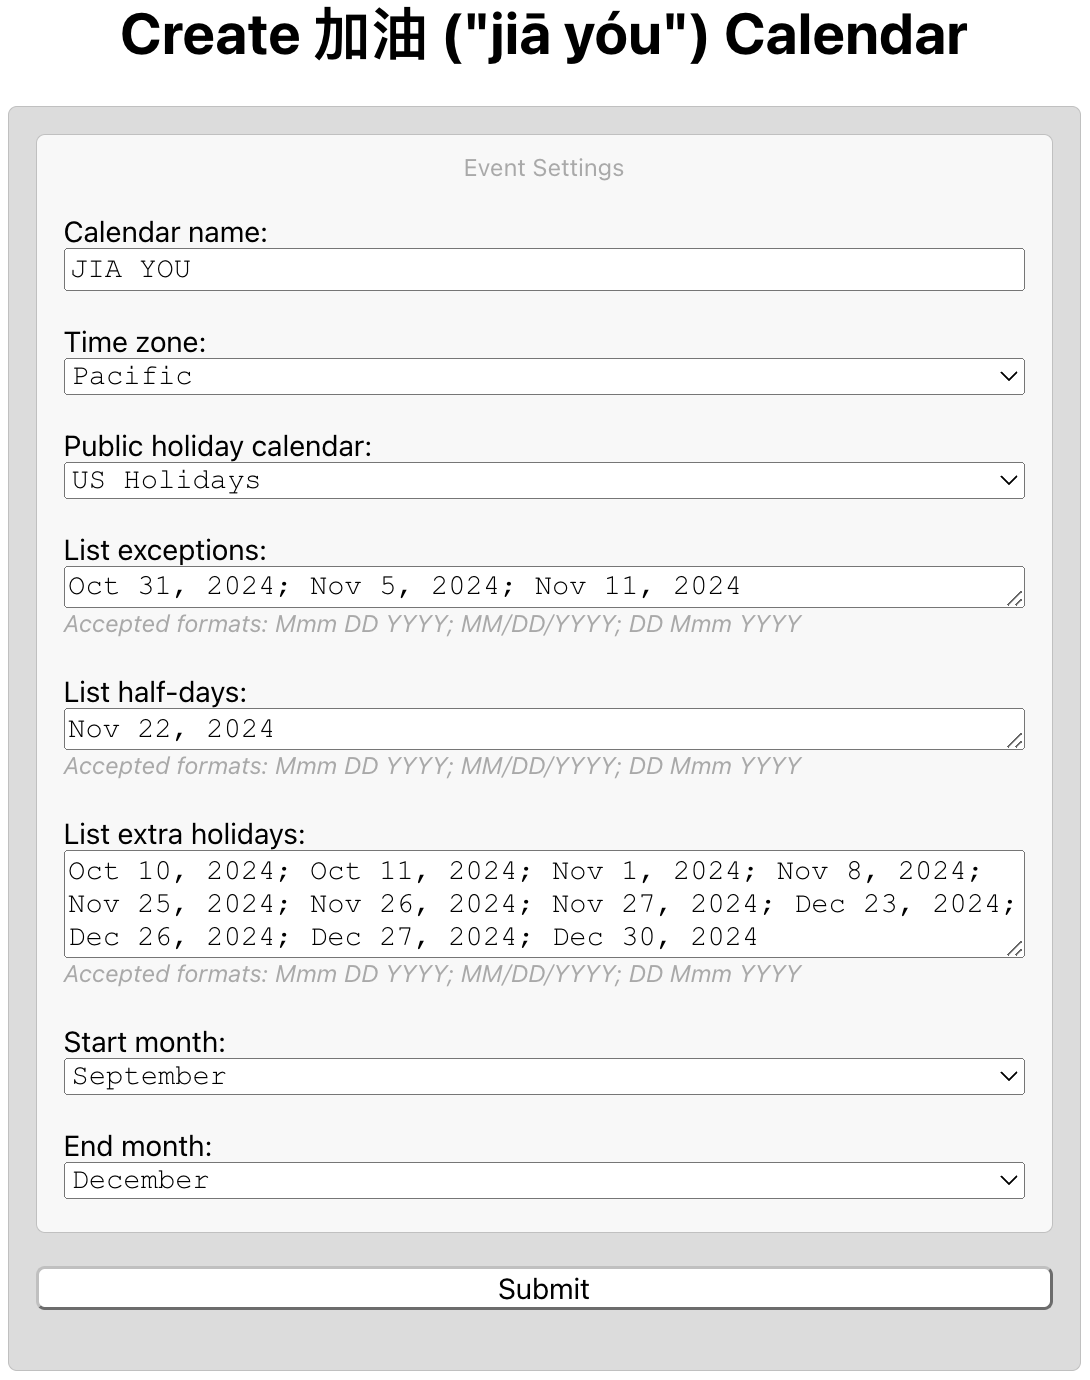
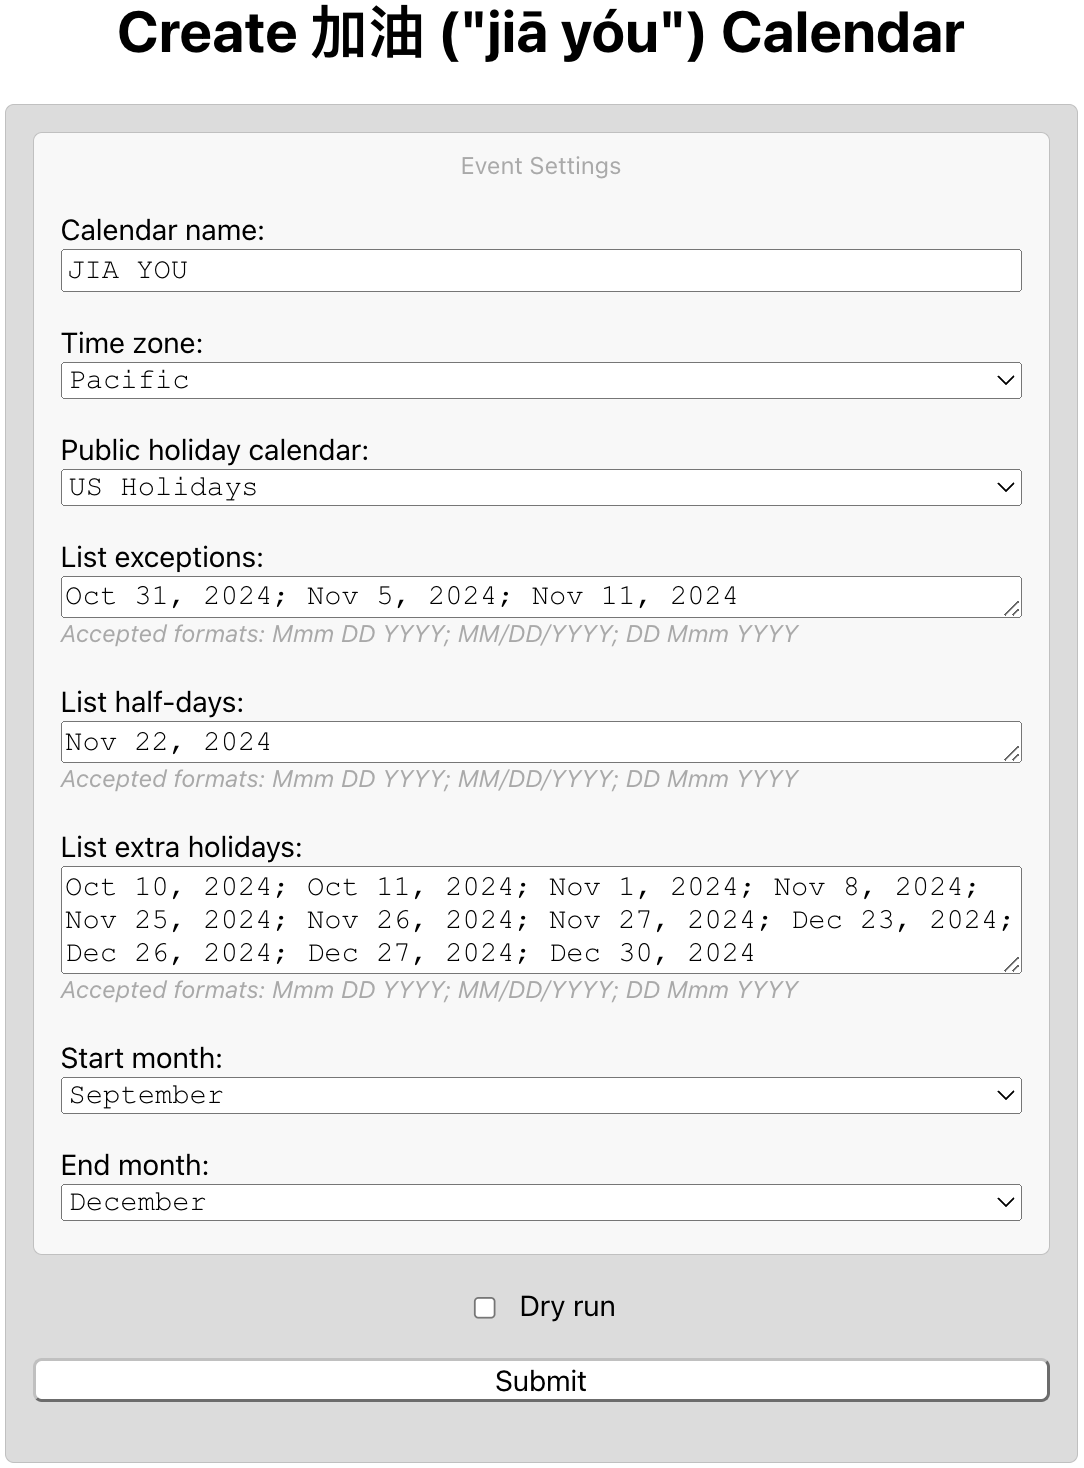
implementing dry run option

Changed region(s): [[0.0, 0.0, 1.0, 0.9971]]

diff --git a/Index.html b/Index.html
@@ -12,12 +12,12 @@
         border-radius: 5px;
         background-color: Gainsboro;
       }
-      label, select, input, textarea {
+      select, input[type="text"], input[type="submit"], textarea {
         display: block;
         margin-bottom: 0px;
         width: 100%;
         -webkit-box-sizing: border-box;
-        box-sizing: content-box; /* compatibility */
+        box-sizing: border-box; /* compatibility */
       }
       select, input, textarea, div {
         font-family: 'Courier New', Courier, monospace;
@@ -46,6 +46,9 @@
       }
       text[id="settings"] {
         font-style: normal;
+      }
+      input[type="checkbox"] {
+        vertical-align: bottom;
       }
       input[type="submit"] {
         background-color: white;
@@ -149,6 +152,13 @@
 
       </br>
 
+      <div>
+        <input type="checkbox" id="dryRun" name="dryRun"/>
+        <label for="dryRun">Dry run</label>
+      </div>
+
+      </br>
+
       <input type="submit" value="Submit">
       <div id="wait">&nbsp;</div>
     </form>
@@ -166,11 +176,14 @@
         var extraHolidays = document.getElementById('extraHolidays').value;
         var startMonth = document.getElementById('startMonth').value;
         var endMonth = document.getElementById('endMonth').value;
+
+        var dryRun = document.getElementById('dryRun').checked;
+        
         document.getElementById("wait").innerHTML = "Please wait...";
 
         google.script.run.withSuccessHandler(function(response) {
           document.getElementById('wait').innerHTML = response; // Displays a success message when completed
-        }).createCalendar(calendarName, timeZone, holidayCalendar, holidayExceptions, halfDays, extraHolidays, startMonth, endMonth);
+        }).createCalendar(calendarName, timeZone, holidayCalendar, holidayExceptions, halfDays, extraHolidays, startMonth, endMonth, dryRun);
       });
     </script>
   </body>

diff --git a/README.md b/README.md
@@ -19,7 +19,8 @@ Google Web app for batch creating a calendar of events that cycles the words "J 
 7. Modify the calendar name, time zone, and public holiday calendar. (**_Must name it differently from the owner name, otherwise the app will not create the calendar._**)
 8. Add any exceptions to the holiday schedule, any half-days, and any extra holidays.
 9. Modify the start and end months. (If the start month is greater than the end month, then the calendar will roll over to the new year.)
-10. Press submit. (Requires another authorization. **_Note also that creating calendars is subject to a [use limit](https://support.google.com/a/answer/2905486?hl=en)._**)
+10. Optionally perform a dry run to test the Web app before running it in production. Consult logs for output.
+11. Press submit. (Requires another authorization. **_Note also that creating calendars is subject to a [use limit](https://support.google.com/a/answer/2905486?hl=en)._**)
 
 <hr>
 Made with &heartsuit; in Visual Studio Code
